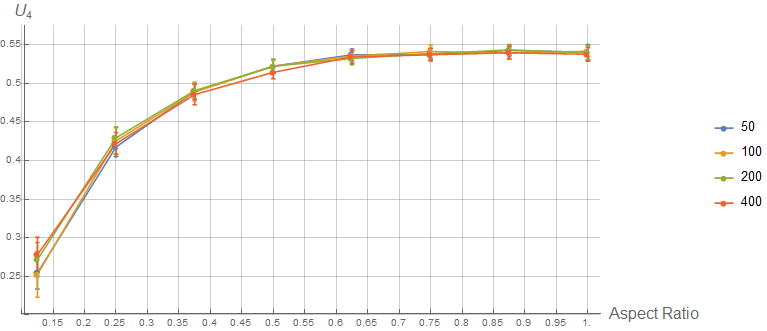
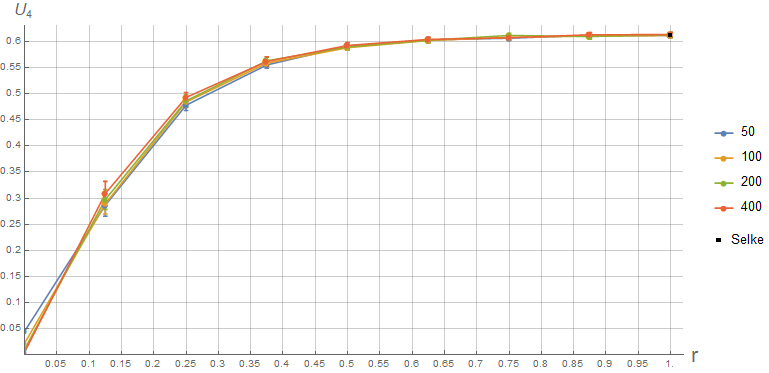
Графики кумулянта + Selke + 1D

diff --git a/Отчёт TeX/Sections/RectanCumulant.tex b/Отчёт TeX/Sections/RectanCumulant.tex
@@ -12,14 +12,33 @@ U_{4} = 1 - \frac{\la m^{4} \ra}{3 * (m^{2})^{2}}
 
 \begin{figure}[!h]
     \centering
-    \includegraphics[width=150mm]{Sections/Images/CumulantOBC.png}
-    \label{fig:CumulOBC}
+    \includegraphics[width=100mm]{Sections/Images/CumulantOBC.png}
     \caption{График зависимости значения кумулянта Биндера в крит. точке от Aspect Ratio при открытых гран. условиях}
+    \label{fig:CumulOBC}
 \end{figure}
 
 \begin{figure}[!h]
     \centering
-    \includegraphics[width=150mm]{Sections/Images/CumulantPBC.png}
-    \label{fig:CumulOBC}
+    \includegraphics[width=100mm]{Sections/Images/CumulantPBC.png}
     \caption{График зависимости значения кумулянта Биндера в крит. точке от Aspect Ratio при периодических гран. условиях}
+    \label{fig:CumulPBC}
+\end{figure}
+
+Крайние левые точки в отметке нуля являются расчётами для модели одномерного Изинга (где длина цепочки равна соответствующей стороне в двумерном изинге). Так, в случае открытых гран. условий (рис. \ref{fig:CumulOBC}) и периодических (рис. \ref{fig:CumulPBC}) значения кумулянта стремится к нулю с увеличением длины цепочки(см. Проект6.pdf\cite{Git}).
+Черными точками отмечены значения критического кумулянта из работы Уолтера Сельке - 0.396 ± 0.002 для квадратной модели и 0.349 ± 0.002 для прямоугольной с отношением сторон r = 1/2 при открытых гран. условий. Для периодического случая квадратной модели критический кумулянт равен 0.61069\cite{Selke}.
+
+Эти же значения отмечены в графиках \ref{fig:CumulOBCL} и \ref{fig:CumulPBCL} зависимости крит. кумулянта от обратной длины стороны как крайние левые (в нуле - так обозначен случай термодинамический предел).
+
+\begin{figure}[!h]
+    \centering
+    \includegraphics[width=100mm]{Sections/Images/CumulantOBCL.png}
+    \caption{График зависимости значения кумулянта Биндера в крит. точке от обратной длины стороны при открытых гран. условиях}
+    \label{fig:CumulOBCL}
+\end{figure}
+
+\begin{figure}[!h]
+    \centering
+    \includegraphics[width=100mm]{Sections/Images/CumulantPBCL.png}
+    \caption{График зависимости значения кумулянта Биндера в крит. точке от обратной длины стороны при периодических гран. условиях}
+    \label{fig:CumulPBCL}
 \end{figure}

diff --git a/Отчёт TeX/Sections/DatCollMeanMagn2.tex b/Отчёт TeX/Sections/DatCollMeanMagn2.tex
@@ -85,7 +85,7 @@ $m_{02}$ обладает следующими свойствами:
 
 \begin{figure}[!h]
     \centering
-    \includegraphics[width=150mm]{Sections/Images/DatColMagn2_3.png}
+    \includegraphics[width=100mm]{Sections/Images/DatColMagn2_3.png}
     \label{fig:DatColM2_3}
 \end{figure}
 
@@ -100,9 +100,9 @@ $\beta = 1/8,\ \ \nu = 1$
 
 \begin{figure}[!h]
     \centering
-    \includegraphics[width=150mm]{Sections/Images/ErrTc2_2.png}
-    \label{fig:ErrTc2_2}
+    \includegraphics[width=100mm]{Sections/Images/ErrTc2_2.png}
     \caption{Графики масштабирующих функций при найденных крайних значениях критической температуры для решеток со сторонами 500-1000}
+    \label{fig:ErrTc2_2}
 \end{figure}
 
 Последующие изменения значения крит. температуры вне данных граничных значений приводят к заметному развлетвлению графиков и, следовательно, к ухудшению качества коллапса данных.
@@ -111,18 +111,18 @@ $\beta = 1/8,\ \ \nu = 1$
 
 \begin{figure}[!h]
     \centering
-    \includegraphics[width=150mm]{Sections/Images/ErrV2_2.png}
-    \label{fig:ErrV2_2}
+    \includegraphics[width=100mm]{Sections/Images/ErrV2_2.png}
     \caption{Графики масштабирующих функций при найденных крайних значениях критической экспоненты $\nu$ для решеток со сторонами 500-1000}
+    \label{fig:ErrV2_2}
 \end{figure}
 
 Изменение $\nu$ ведёт к тому, что коллапс данных наблюдается всё дальше и дальше от области критической температуры. Крайние значения для $\beta$, в свою очередь:
 
 \begin{figure}[!h]
     \centering
-    \includegraphics[width=150mm]{Sections/Images/ErrB2_2.png}
-    \label{fig:DatColM2_2}
+    \includegraphics[width=100mm]{Sections/Images/ErrB2_2.png}
     \caption{Графики масштабирующих функций при найденных крайних значениях критической экспоненты $\beta$ для решеток со сторонами 500-1000}
+    \label{fig:DatColM2_2}
 \end{figure}
 
 (Рекомендуется оставить один вид графиков и трёх предложенных)

diff --git a/Отчёт TeX/Sections/Bibliography.tex b/Отчёт TeX/Sections/Bibliography.tex
@@ -5,4 +5,5 @@
 \bibitem[4]{Yanke} Wolfhard Janke Monte Carlo Methods in Classical Statistical Physics (from Lecture Notes in Physics - Springer) - Institut für Theoretische Physik and Centre for Theoretical Sciences, Universität Leipzig, 04009 Leipzig, Germany
 \bibitem[5]{Schro} Github Repository: Shroedingercat/Self-learning-Monte-carlo-algorithms (https://github.com/Shroedingercat/Self-learning-Monte-carlo-algorithms)
 \bibitem[6]{SAW} Github Repository: kamilla0503/SAWs (https://github.com/kamilla0503/SAWs)
+\bibitem[7]{Selke} W. Selke Critical Binder cumulant of two–dimensional Ising models - Institut f¨ur Theoretische Physik, Technische Hochschule RWTH Aachen, 52056 Aachen, Germany
 \end{thebibliography}
